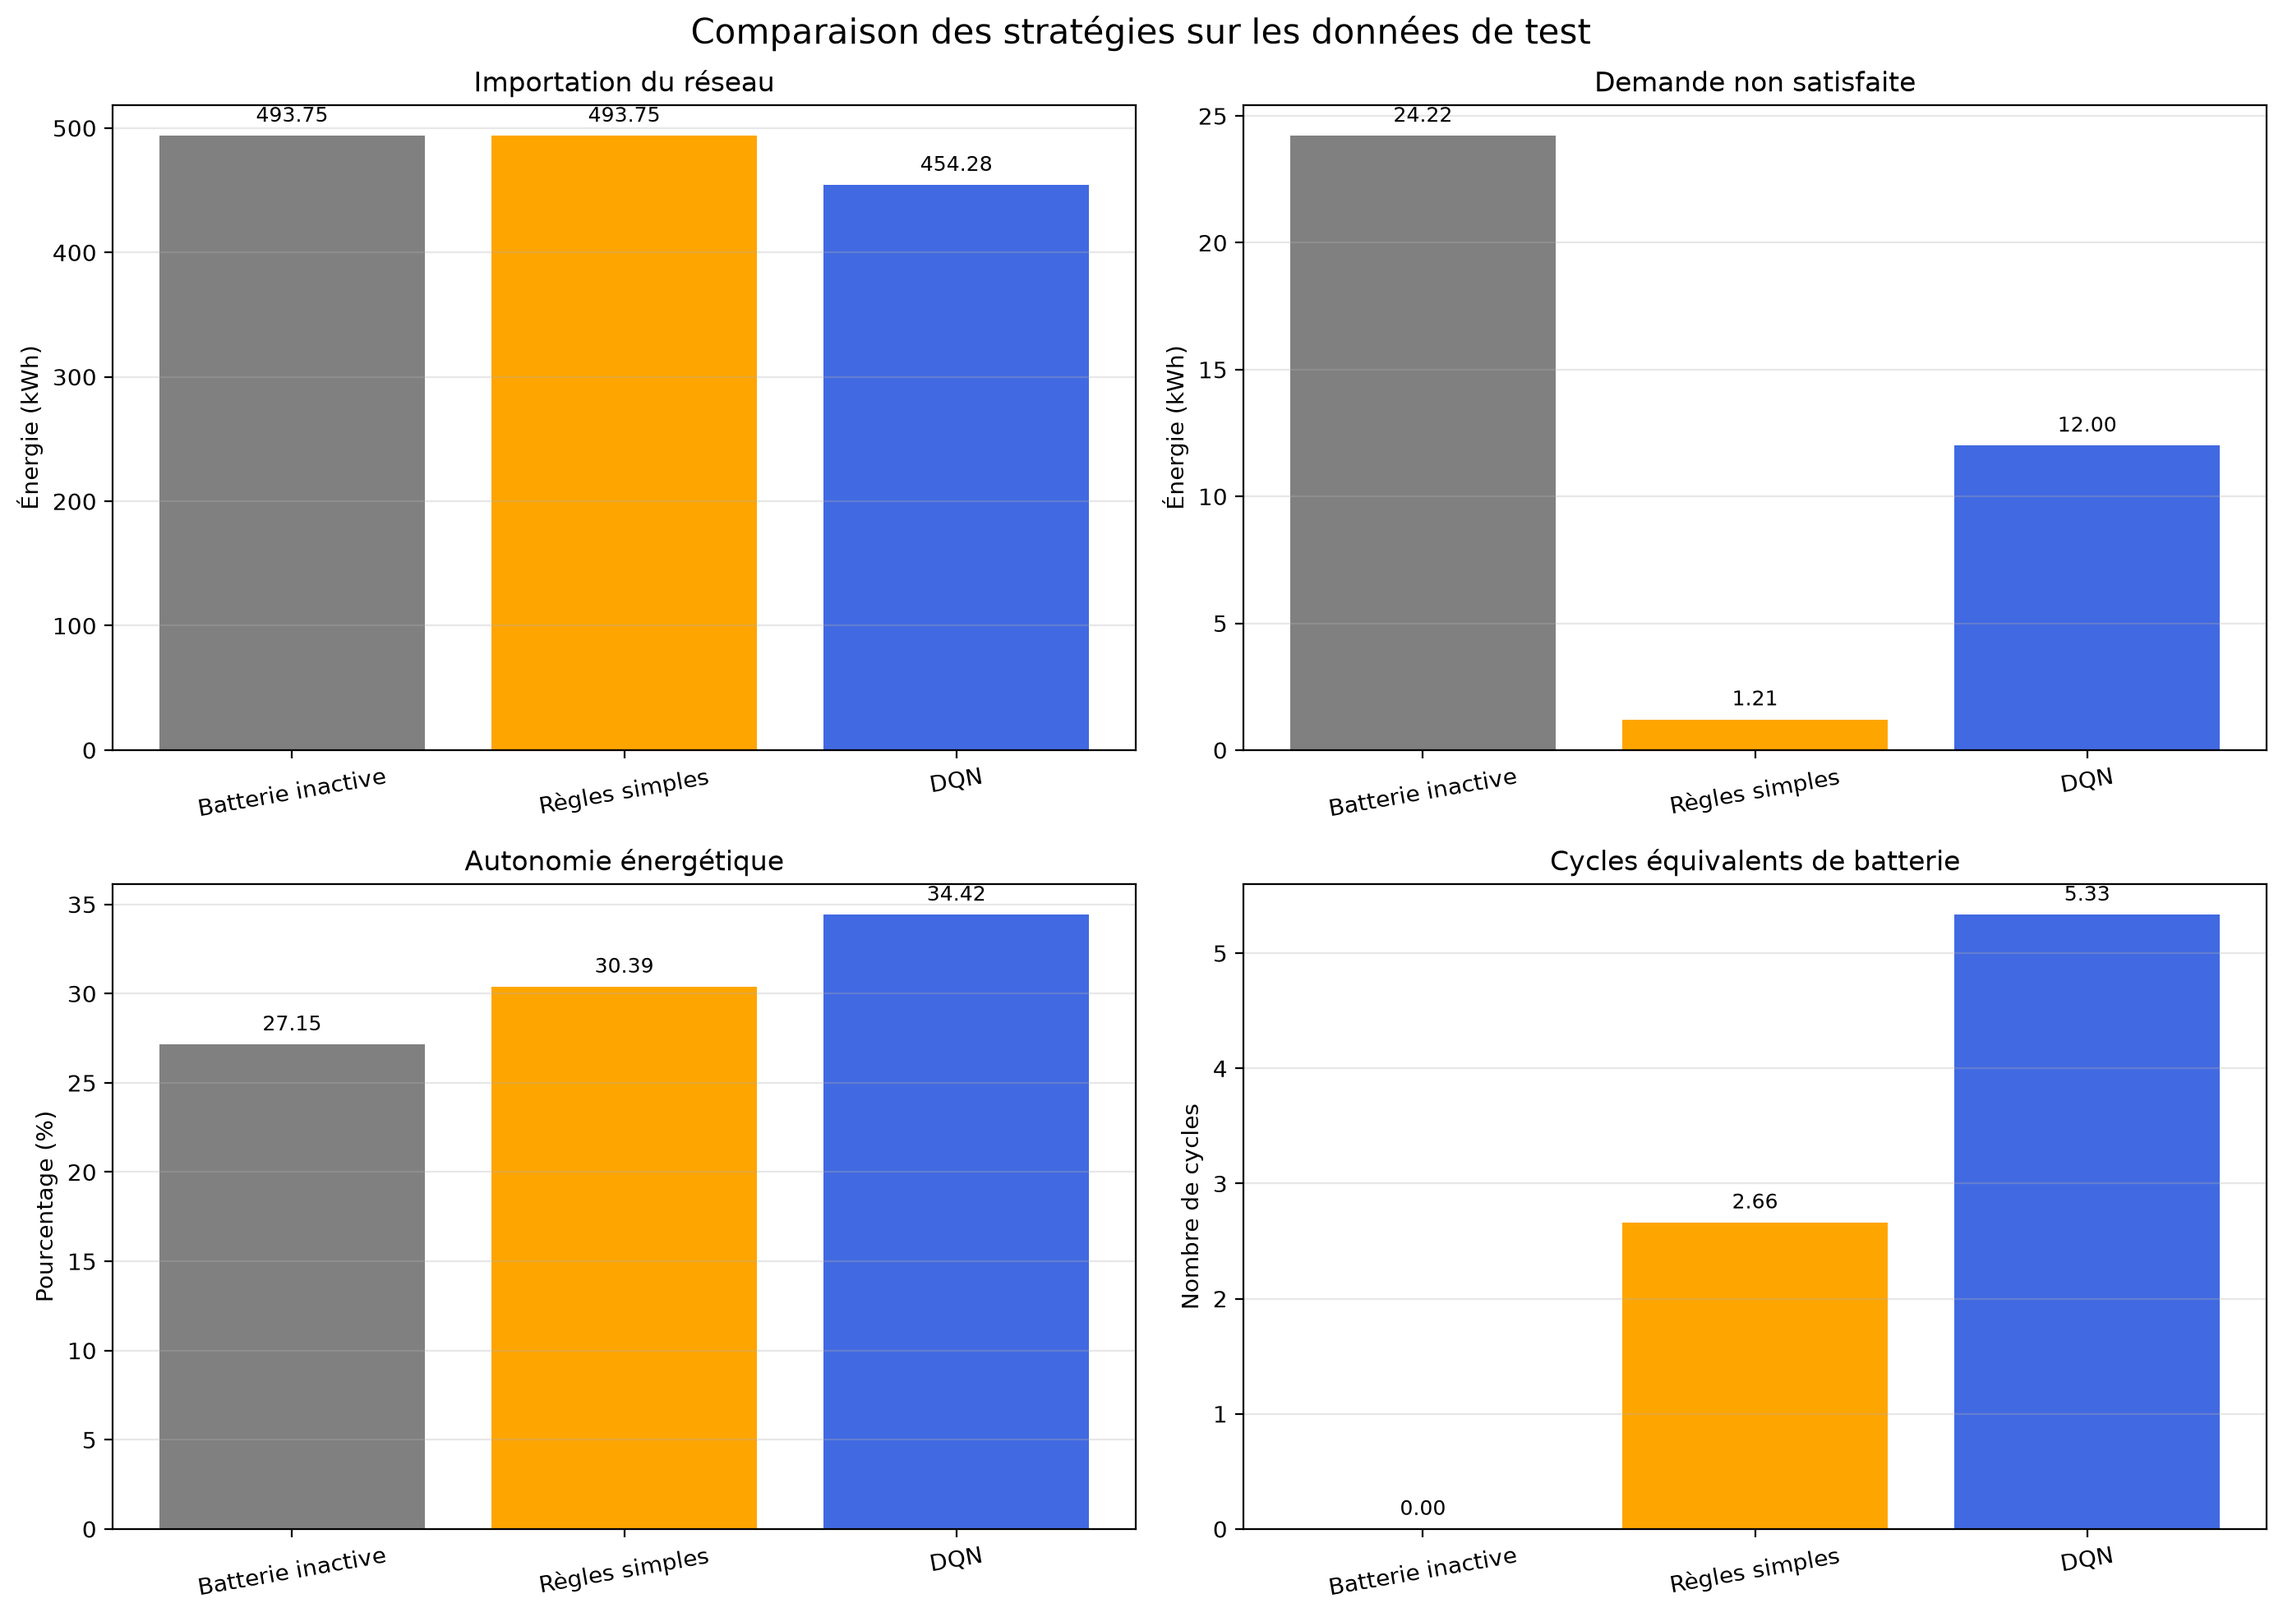
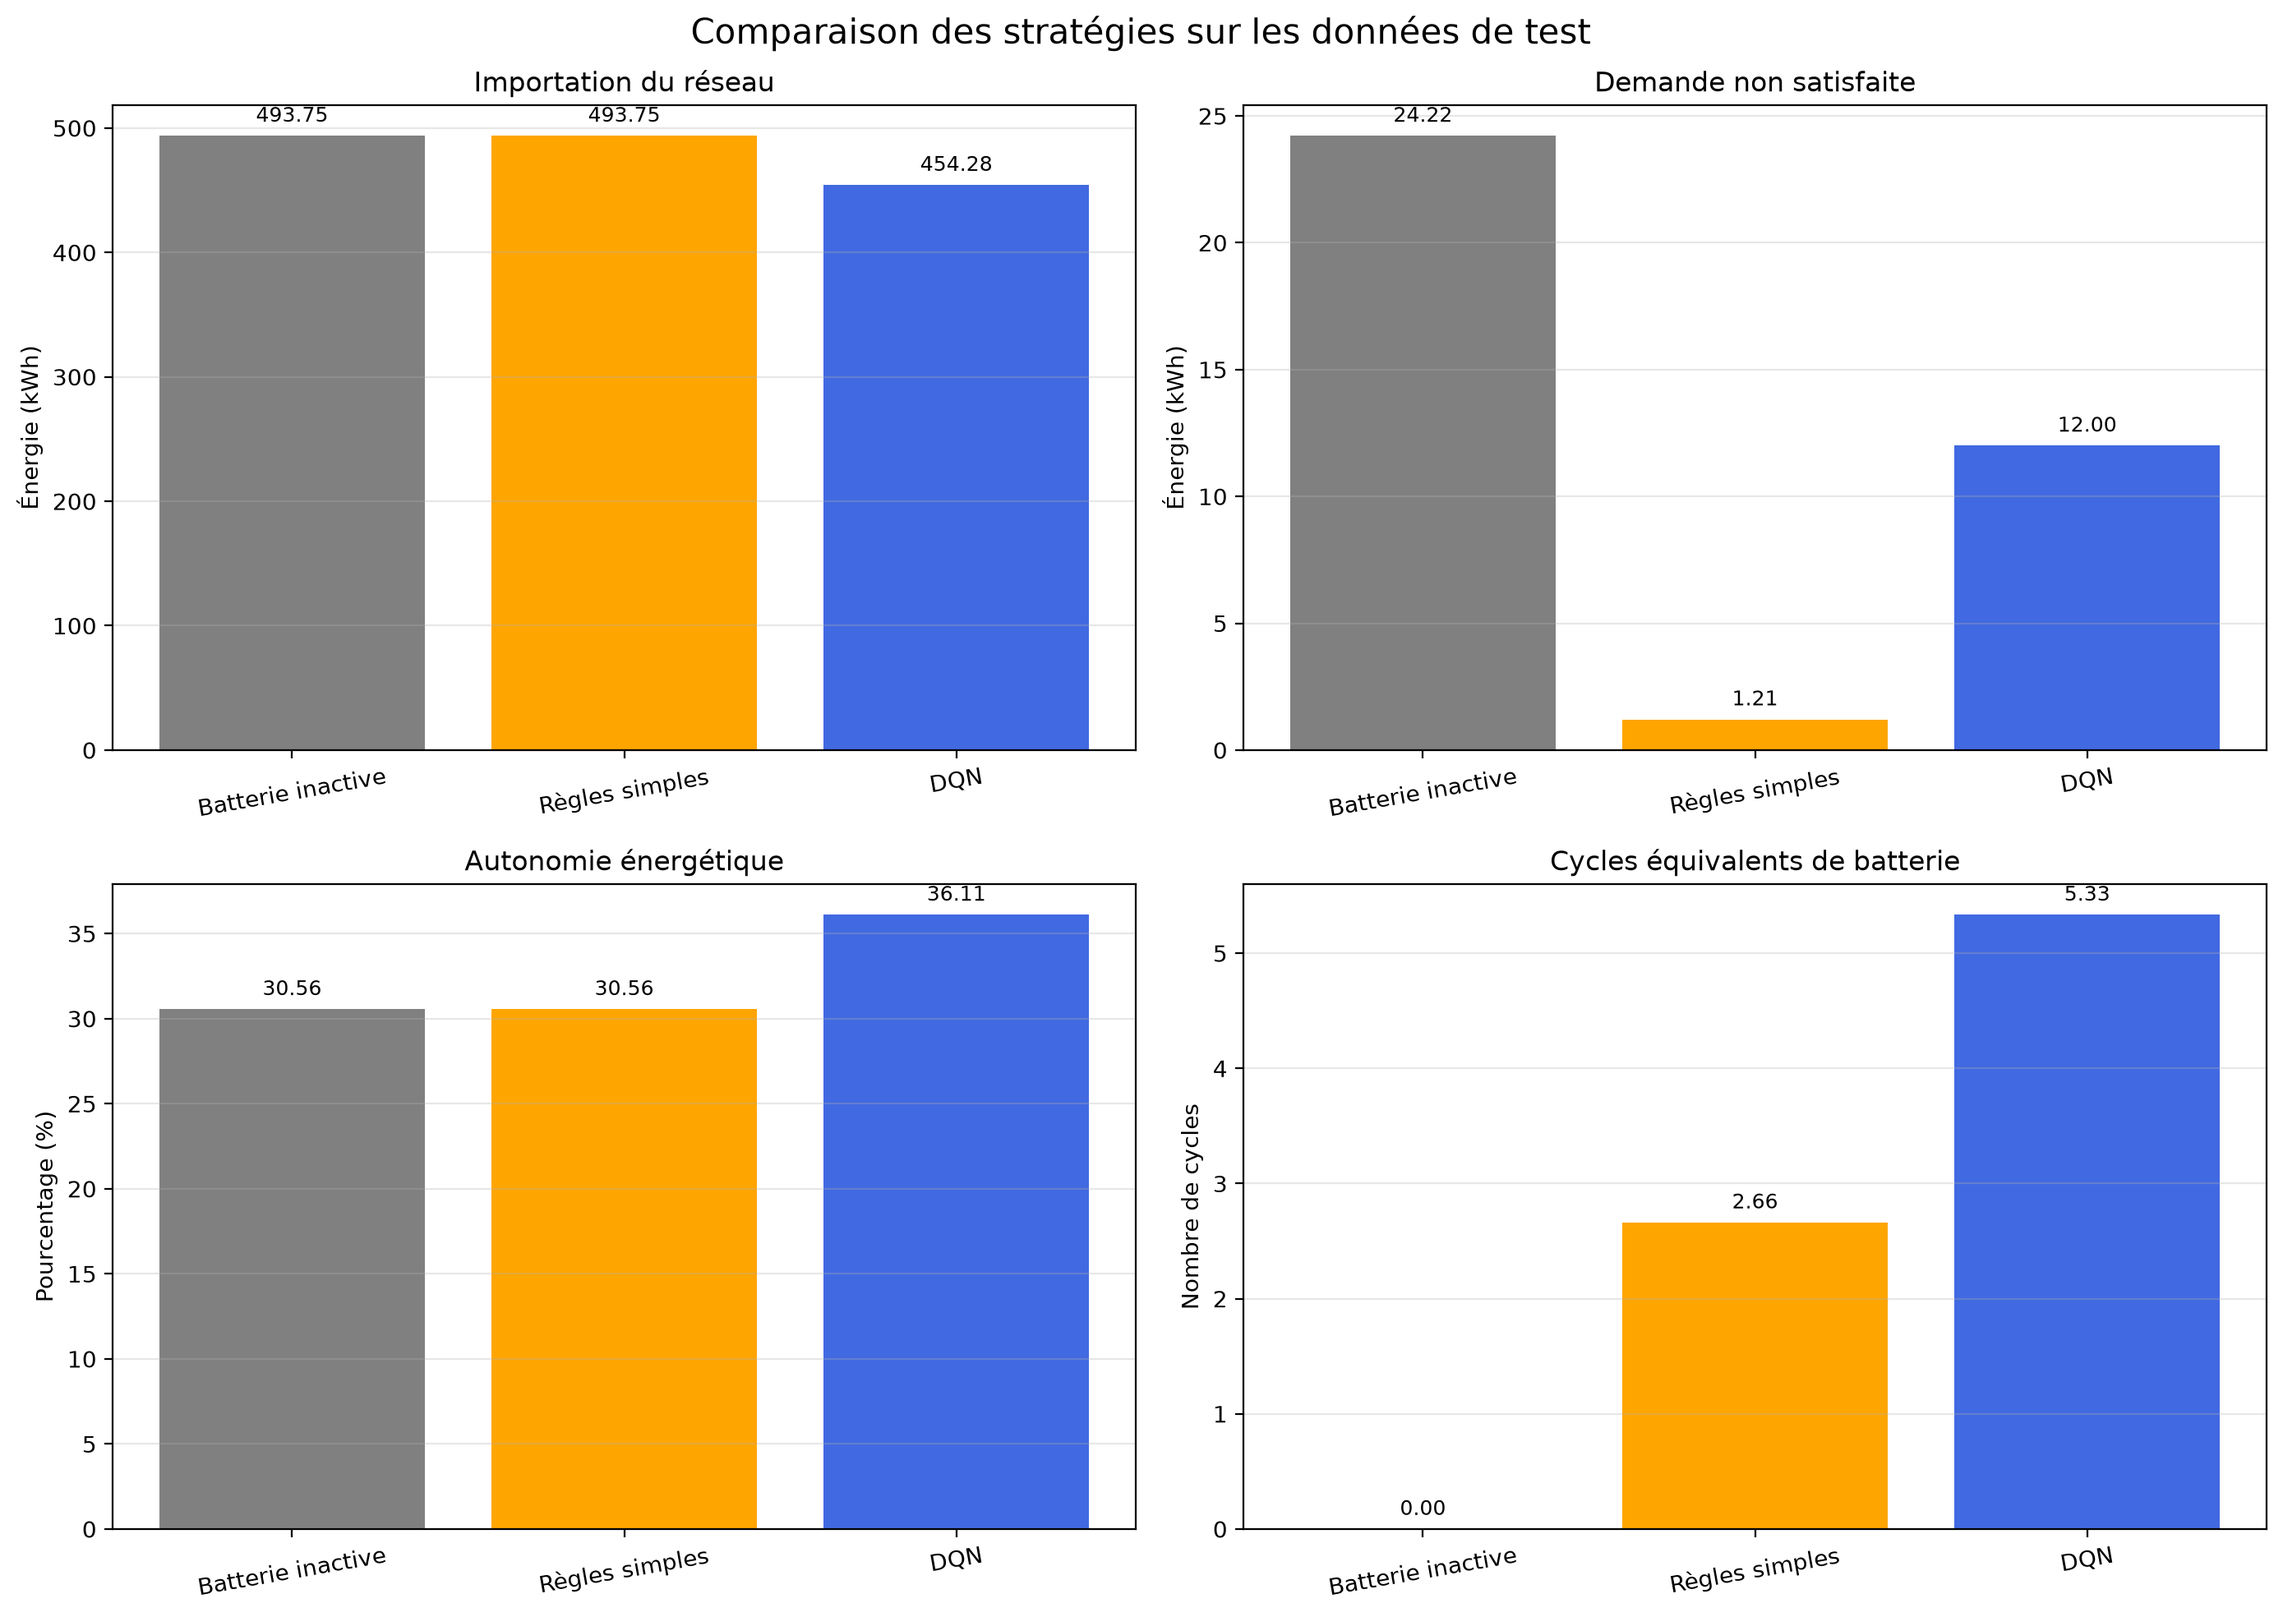
fix: correct autonomy evaluation metric

Changed region(s): [[0.2167, 0.5889, 0.3405, 0.6509], [0.0619, 0.6199, 0.1857, 0.6509], [0.031, 0.7129, 0.0619, 0.7439]]

diff --git a/evaluate.py b/evaluate.py
@@ -143,10 +143,7 @@ def evaluate_policy(
         100
         * (
             1
-            - (
-                total_grid_import
-                + total_unmet_demand
-            )
+            - total_grid_import
             / total_consumption
         )
         if total_consumption > 0

diff --git a/tests/test_evaluation.py b/tests/test_evaluation.py
@@ -77,7 +77,7 @@ def test_autonomy_excludes_unmet_demand():
 
     assert results[
         "autonomy_rate_percent"
-    ] == 33.3333
+    ] == 66.6667
 
 def test_equivalent_cycles_use_total_throughput():
     environment = create_test_environment()

diff --git a/README.md b/README.md
@@ -2,7 +2,7 @@
 
 Projet académique de Reinforcement Learning réalisé dans le cadre du Master en Intelligence Artificielle du Dakar Institute of Technology.
 
-Le projet entraîne un agent Deep Q-Network (DQN), implémenté manuellement avec PyTorch, pour piloter la batterie d’une maison équipée de panneaux solaires et connectée à un réseau électrique sujet à des coupures.
+Le projet entraîne un agent Deep Q-Network (DQN), implémenté manuellement avec PyTorch, afin de piloter la batterie d’une maison équipée de panneaux solaires et connectée à un réseau électrique sujet à des coupures.
 
 L’objectif est d’équilibrer l’autonomie énergétique, la continuité de service pendant les coupures et la préservation de la batterie.
 
@@ -102,7 +102,7 @@ Les données sont séparées sans mélange aléatoire, afin d’éviter l’util
 | Validation | 55 jours | 1 320 |
 | Test | 55 jours | 1 320 |
 
-Les échelles de normalisation de la production solaire et de la consommation sont calculées **uniquement sur l’ensemble d’entraînement**. Les mêmes échelles sont ensuite appliquées à la validation et au test.
+Les échelles de normalisation de la production solaire et de la consommation sont calculées uniquement sur l’ensemble d’entraînement. Les mêmes échelles sont ensuite appliquées à la validation et au test.
 
 Cette précaution évite une fuite d’information depuis les données futures.
 
@@ -122,7 +122,7 @@ Il ajoute la colonne `grid_available` :
 
 Avec la graine `42`, la simulation produit 392 heures de coupure, avec des durées comprises entre une et quatre heures.
 
-Les expériences utilisent plusieurs graines aléatoires pour mesurer la stabilité des résultats.
+Les expériences utilisent plusieurs graines aléatoires afin de mesurer la stabilité des résultats.
 
 ## Environnement de Reinforcement Learning
 
@@ -135,7 +135,7 @@ La classe `EnergyEnvironment` respecte l’API de Gymnasium :
 - l’espace d’actions est discret avec trois actions ;
 - l’espace d’observation contient six variables.
 
-Gymnasium fournit ici une interface standard pour l’environnement ; l’algorithme DQN reste implémenté manuellement avec PyTorch.
+Gymnasium fournit une interface standard pour l’environnement ; l’algorithme DQN reste implémenté manuellement avec PyTorch.
 
 ### État
 
@@ -176,8 +176,6 @@ L’environnement calcule également :
 - le débit énergétique total de la batterie ;
 - le coût de dégradation associé à ce débit ;
 - les cycles équivalents.
-
-Le nombre de cycles équivalents est calculé par :
 
 ```text
 cycles_équivalents = débit_batterie / (2 × capacité_batterie)
@@ -257,6 +255,26 @@ Chaque sortie représente la valeur Q estimée pour une action.
 | Mise à jour du réseau cible | 250 optimisations |
 | Épisodes par expérience | 30 |
 | Graines évaluées | 42, 123, 2026 |
+
+## Métriques d’évaluation
+
+L’autonomie énergétique mesure la part de la consommation qui ne dépend pas du réseau :
+
+```text
+autonomie = 100 × (1 - importation_du_réseau / consommation_totale)
+```
+
+La demande non satisfaite est volontairement suivie dans une métrique distincte, car elle mesure la continuité du service pendant les coupures :
+
+```text
+satisfaction_de_la_demande =
+    100 × (1 - demande_non_satisfaite / consommation_totale)
+```
+
+Cette séparation permet de distinguer clairement :
+
+- la dépendance au réseau ;
+- la capacité à satisfaire la consommation lors des coupures.
 
 ## Installation
 
@@ -360,17 +378,17 @@ La meilleure graine est `42`. Son modèle devient le modèle officiel évalué d
 
 | Politique | Récompense | Import réseau | Demande non satisfaite | Autonomie | Cycles équivalents |
 |---|---:|---:|---:|---:|---:|
-| Batterie inactive | -411,01 ± 9,61 | 496,45 ± 2,40 kWh | 21,52 ± 2,40 kWh | 27,15 ± 0,00 % | 0,00 |
-| Règles simples | -309,27 ± 1,75 | 496,45 ± 2,40 kWh | 1,08 ± 0,12 kWh | 30,02 ± 0,32 % | 2,38 ± 0,25 |
-| DQN | -324,00 ± 9,68 | 454,44 ± 3,19 kWh | 12,31 ± 2,56 kWh | 34,35 ± 0,11 % | 5,29 ± 0,04 |
+| Batterie inactive | -411,01 ± 9,61 | 496,45 ± 2,40 kWh | 21,52 ± 2,40 kWh | 30,04 ± 0,34 % | 0,00 |
+| Règles simples | -309,27 ± 1,75 | 496,45 ± 2,40 kWh | 1,08 ± 0,12 kWh | 30,04 ± 0,34 % | 2,38 ± 0,25 |
+| DQN | -324,00 ± 9,68 | 454,44 ± 3,19 kWh | 12,31 ± 2,56 kWh | 36,09 ± 0,45 % | 5,29 ± 0,04 |
 
 ### Résultats du modèle officiel, graine 42
 
 | Politique | Récompense | Import réseau | Demande non satisfaite | Autonomie | Cycles équivalents |
 |---|---:|---:|---:|---:|---:|
-| Batterie inactive | -421,79 | 493,75 kWh | 24,22 kWh | 27,15 % | 0,00 |
-| Règles simples | -307,30 | 493,75 kWh | 1,21 kWh | 30,39 % | 2,66 |
-| DQN | -322,31 | 454,28 kWh | 12,00 kWh | 34,42 % | 5,33 |
+| Batterie inactive | -421,79 | 493,75 kWh | 24,22 kWh | 30,56 % | 0,00 |
+| Règles simples | -307,30 | 493,75 kWh | 1,21 kWh | 30,56 % | 2,66 |
+| DQN | -322,31 | 454,28 kWh | 12,00 kWh | 36,11 % | 5,33 |
 
 ![Progression de l’entraînement](results/figures/training_progress.png)
 
@@ -381,11 +399,11 @@ La meilleure graine est `42`. Son modèle devient le modèle officiel évalué d
 Comparativement à une batterie inactive, le DQN :
 
 - réduit l’importation moyenne du réseau d’environ 42 kWh ;
-- augmente l’autonomie moyenne de 7,20 points ;
+- augmente l’autonomie moyenne de 6,05 points ;
 - réduit la demande non satisfaite moyenne ;
 - produit des résultats stables sur les trois graines.
 
-La stratégie à règles simples reste cependant meilleure pour :
+La stratégie à règles simples reste néanmoins meilleure pour :
 
 - la récompense globale ;
 - la limitation de la demande non satisfaite ;
